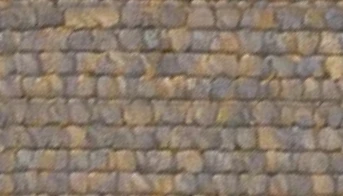
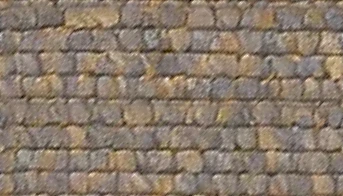
v98.886 — ขอบถนนเป็นก้อนหิน 3 มิติจากภาพจริง + ผิวหินคมขึ้น
Claude-Session: https://claude.ai/code/session_019t7yauB97LFXC2qcakV5pK

diff --git a/village-town.html b/village-town.html
@@ -265,7 +265,9 @@ function paintRoad(q,lines,width){let sp=clipSplit.get(lines);if(!sp){const cut=
    the flat top-down cobble and the stone-block curb, scaled so ONE CELL = CELLPX paint px (the tile edges are tilted to the exact 2:1 grid) and laid on the (u,v) axes
    (pattern rotated 45° in paint space) so every block row is on a grid line. The curb is one row of blocks ¼ cell deep along the OUTER edge of the road
    (which is on the grid, see snapK); blocks run along the road, so u-direction and v-direction segments use the two orientations of the same tile. */
-const SHEET={cobble:null,curb:null,pat:new WeakMap()};
+const SHEET={cobble:null,curb:null,strips:null,pat:new WeakMap()};
+{const im=new Image();im.onload=()=>{SHEET.strips=im;terrainDirty=true;try{lateTerrain()}catch(e){}};im.src='assets/village-town/ground/road-strips.webp'}
+const STRIPS=()=>!!(window.ROAD_STRIPS&&SHEET.strips&&SHEET.cobble);
 for(const[k,f]of[['cobble','road-sheet-cobble.webp'],['curb','road-sheet-curb.webp']]){const im=new Image();im.onload=()=>{SHEET[k]=im;SHEET.pat=new WeakMap();terrainDirty=true;try{lateTerrain()}catch(e){}};im.src='assets/village-town/ground/'+f}
 function sheetPat(ctx,key){if(!SHEET.cobble||!SHEET.curb)return null;let m=SHEET.pat.get(ctx);if(!m)SHEET.pat.set(ctx,m=new Map());if(m.has(key))return m.get(key);let src,s;
  if(key==='cobble'){src=SHEET.cobble;s=CELLPX/49}else{const c=document.createElement('canvas');c.width=c.height=192;const q=c.getContext('2d');if(key==='curbV')q.setTransform(0,1,1,0,0,0);q.drawImage(SHEET.curb,0,0);src=c;s=CELLPX/48}
@@ -273,6 +275,30 @@ function sheetPat(ctx,key){if(!SHEET.cobble||!SHEET.curb)return null;let m=SHEET
 /* a main/lane road split into its u-direction and v-direction segments (2-point lines that keep the road's width multiplier) */
 const dirCache=new WeakMap();
 function splitDir(lines){let r=dirCache.get(lines);if(r)return r;const kind=kindOfLines(lines),u=[],v=[];for(const L of lines){const w=lineW(L);for(let i=1;i<L.length;i++){const dx=L[i].x-L[i-1].x,dy=(L[i].y-L[i-1].y)*2;if(Math.hypot(dx,dy)<.5)continue;(dx*dy>0?u:v).push([{...L[i-1],w},{...L[i],w}])}}lineTag.set(u,kind);lineTag.set(v,kind);r={u,v};dirCache.set(lines,r);return r}
+/* v98.885 · REAL 3D CURB BLOCKS from the road sheet along every edge of the road (assets/village-town/ground/road-strips.webp · js/road-strips-data.js · tools/build-road-strips.py).
+   The roads (axis-aligned rectangles with edges on the grid) are rasterised at half-cell resolution; every boundary run gets 4-cell windows of the sheet's own curb art:
+   edge facing NW / SE → pieces A+C (blocks run NE–SW) · edge facing NE / SW → piece B (blocks run NW–SE); near and far sides are different pictures (tops + outer face / tops + inner face). */
+function roadRunsUV(){const rects=[];
+ for(const lines of[roadMainLines,roadLaneLines]){const kind=kindOfLines(lines),R=kind==='lane'?ROAD.lane:ROAD.main,Aw=R.curb+2*RIM_DARK;
+  for(const[k,ls]of byScale(lines)){const hc=roadW(Aw,lines,k)/CELLPX/2;
+   for(const L of ls)for(let i=1;i<L.length;i++){const a=inv(L[i-1].x,L[i-1].y),b=inv(L[i].x,L[i].y);if(Math.hypot(a.u-b.u,a.v-b.v)<.01)continue;
+    if(Math.abs(a.v-b.v)<.01)rects.push([Math.min(a.u,b.u)-hc,Math.max(a.u,b.u)+hc,a.v-hc,a.v+hc]);else if(Math.abs(a.u-b.u)<.01)rects.push([a.u-hc,a.u+hc,Math.min(a.v,b.v)-hc,Math.max(a.v,b.v)+hc])}}}
+ if(!rects.length)return[];const q=.5,u0=Math.min(...rects.map(r=>r[0]))-1,v0=Math.min(...rects.map(r=>r[2]))-1,NI=Math.ceil((Math.max(...rects.map(r=>r[1]))-u0)/q)+2,NJ=Math.ceil((Math.max(...rects.map(r=>r[3]))-v0)/q)+2,cell=new Uint8Array(NI*NJ);
+ for(const r of rects){const i0=Math.round((r[0]-u0)/q),i1=Math.round((r[1]-u0)/q),j0=Math.round((r[2]-v0)/q),j1=Math.round((r[3]-v0)/q);for(let i=i0;i<i1;i++)for(let j=j0;j<j1;j++)cell[i*NJ+j]=1}
+ const at=(i,j)=>i>=0&&j>=0&&i<NI&&j<NJ&&cell[i*NJ+j],runs=[];
+ for(let i=0;i<NI;i++){let a=null,b=null;for(let j=0;j<=NJ;j++){const w=at(i,j)&&!at(i-1,j),e=at(i,j)&&!at(i+1,j);if(w){if(!a)a=j}else if(a!==null){runs.push({t:'A_far',U:u0+i*q,v0:v0+a*q,v1:v0+j*q});a=null}
+   if(e){if(!b)b=j}else if(b!==null){runs.push({t:'A_near',U:u0+(i+1)*q,v0:v0+b*q,v1:v0+j*q});b=null}}}
+ for(let j=0;j<NJ;j++){let a=null,b=null;for(let i=0;i<=NI;i++){const n=at(i,j)&&!at(i,j-1),s=at(i,j)&&!at(i,j+1);if(n){if(!a)a=i}else if(a!==null){runs.push({t:'B_far',V:v0+j*q,u0:u0+a*q,u1:u0+i*q});a=null}
+   if(s){if(!b)b=i}else if(b!==null){runs.push({t:'B_near',V:v0+(j+1)*q,u0:u0+b*q,u1:u0+i*q});b=null}}}
+ return runs}
+function drawRoadCurbs(c){const D=window.ROAD_STRIPS,img=SHEET.strips;if(!D||!img)return;const runs=roadRunsUV(),P=(u,v)=>({x:2240+(u-v)*28,y:1232+(u+v)*14}),Lw=D.len,sc=D.scale;
+ const keyY=r=>{const p=r.t[0]==='A'?P(r.U,r.v1):P(r.u0,r.V);return p.y};runs.sort((a,b)=>keyY(a)-keyY(b));
+ c.save();c.scale(1,.5);const cl=fpClipAt(RIM_DARK+rimLight());if(cl)c.clip(cl,'evenodd');if(plazaPath){const w=new Path2D();w.rect(-4000,-4000,WORLD_W+8000,WORLD_H*2+8000);w.addPath(plazaPath);c.clip(w,'evenodd')}c.scale(1,2);
+ let n=0;for(const r of runs){const A=r.t[0]==='A',far=r.t.endsWith('far'),tRef=r.t==='A_near'||r.t==='B_far'?4:0,sv=A?[28,-14]:[28,14],tv=A?[28,14]:[28,-14],len=A?r.v1-r.v0:r.u1-r.u0,O=A?P(r.U,r.v1):P(r.u0,r.V),W=D.w[r.t],tb=D.t[r.t];
+  for(let k=0;k*Lw<len-1e-6;k++){n++;const w=W[(Math.round(O.x/7)+k*3+Math.round(O.y/5)+(far?1:0)+(A?0:2))%W.length|0],l=Math.min(Lw,len-k*Lw),sx=O.x+sv[0]*k*Lw,sy=O.y+sv[1]*k*Lw,px=sx-tv[0]*tRef-w.ox,py=sy-tv[1]*tRef-w.oy;
+   const part=l<Lw-1e-6;if(part){c.save();c.beginPath();const a=(s,t)=>{const x=sx-tv[0]*tRef+sv[0]*s+tv[0]*t,y=sy-tv[1]*tRef+sv[1]*s+tv[1]*t;return[x,y]};const q=[a(0,tb[0]-.3),a(l,tb[0]-.3),a(l,tb[1]+.3),a(0,tb[1]+.3)];c.moveTo(...q[0]);for(let z=1;z<4;z++)c.lineTo(...q[z]);c.closePath();c.clip()}
+   c.drawImage(img,w.x,w.y,w.w,w.h,px,py,w.w/sc,w.h/sc);if(part)c.restore()}}
+ c.restore();return n}
 /* v98.883 · ROAD WIDTH BY ROLE. The outer edge is on the grid (snapK). The stone curb of road_sheet is one row of blocks = ¼ cell deep, so the paving is that much narrower:
    rim (thin dark outline) = outer · curb texture = outer − 3 px · paving = outer − ½ cell (+ the feather growth the caller adds) · anything else (walk corridor, dirt exits) keeps width × k. */
 const CELLPX=28*Math.SQRT2,CURB_ROW=.25;
@@ -345,12 +371,12 @@ function drawTerrain(){
  g.fillStyle=TownArt.pattern(g,'grass')||'#7d906b';g.fillRect(0,0,WORLD_W,WORLD_H);TownArt.grassTone?.(g,WORLD_W,WORLD_H);groundPatches();window.TownBiome?.ground(g);estateGround();
  g.save();g.scale(1,.5);g.lineCap='round';g.lineJoin='round';
  // curbs: every paved shape gets the same stone rim — roads, plaza, junctions and the courtyards in front of each place
- const rings=[plazaPath,junctionPath].filter(Boolean);
+ const rings=[plazaPath,STRIPS()?null:junctionPath].filter(Boolean);
  if(ROAD_EDGE_STYLE==='classic'){
-  ROAD_CLIP=0;for(const [lines,R] of [[roadMainLines,ROAD.main],[roadLaneLines,ROAD.lane]]){g.strokeStyle=g.fillStyle='#4f4532';paintRoad(g,lines,R.curb+2*RIM_DARK)}for(const P of rings){g.lineJoin='round';g.strokeStyle='#4f4532';g.lineWidth=2*(RIM_DARK+rimLight())+4;g.stroke(P)}
+  ROAD_CLIP=0;if(!STRIPS())for(const [lines,R] of [[roadMainLines,ROAD.main],[roadLaneLines,ROAD.lane]]){g.strokeStyle=g.fillStyle='#4f4532';paintRoad(g,lines,R.curb+2*RIM_DARK)}for(const P of rings){g.lineJoin='round';g.strokeStyle='#4f4532';g.lineWidth=2*(RIM_DARK+rimLight())+4;g.stroke(P)}
   const cu=sheetPat(g,'curbU'),cv=sheetPat(g,'curbV');
-  ROAD_CLIP=RIM_DARK;for(const [lines,R] of [[roadMainLines,ROAD.main],[roadLaneLines,ROAD.lane]]){if(cu){const S=splitDir(lines);g.strokeStyle=g.fillStyle=cu;paintRoad(g,S.u,R.curb);g.strokeStyle=g.fillStyle=cv;paintRoad(g,S.v,R.curb)}else{g.strokeStyle=g.fillStyle='#cdc3aa';paintRoad(g,lines,R.curb)}}for(const P of rings){g.strokeStyle=cu||'#cdc3aa';g.lineWidth=2*rimLight()+4;g.stroke(P)}
-  if(!cu){g.setLineDash([3,27]);g.lineCap='butt';g.strokeStyle='rgba(74,62,44,.6)';for(const [lines,R] of [[roadMainLines,ROAD.main],[roadLaneLines,ROAD.lane]]){strokeRoad(g,lines,R.curb)}g.lineWidth=2*rimLight()+4;for(const P of rings)g.stroke(P);g.setLineDash([])}ROAD_CLIP=RIM_DARK+rimLight();
+  ROAD_CLIP=RIM_DARK;if(!STRIPS())for(const [lines,R] of [[roadMainLines,ROAD.main],[roadLaneLines,ROAD.lane]]){if(cu){const S=splitDir(lines);g.strokeStyle=g.fillStyle=cu;paintRoad(g,S.u,R.curb);g.strokeStyle=g.fillStyle=cv;paintRoad(g,S.v,R.curb)}else{g.strokeStyle=g.fillStyle='#cdc3aa';paintRoad(g,lines,R.curb)}}for(const P of rings){g.strokeStyle=cu||'#cdc3aa';g.lineWidth=2*rimLight()+4;g.stroke(P)}
+  if(!cu&&!STRIPS()){g.setLineDash([3,27]);g.lineCap='butt';g.strokeStyle='rgba(74,62,44,.6)';for(const [lines,R] of [[roadMainLines,ROAD.main],[roadLaneLines,ROAD.lane]]){strokeRoad(g,lines,R.curb)}g.lineWidth=2*rimLight()+4;for(const P of rings)g.stroke(P);g.setLineDash([])}ROAD_CLIP=RIM_DARK+rimLight();
  }else{const tex=roadEdgePattern(g);g.save();g.lineCap='round';g.lineJoin='round';for(const [lines,R] of [[roadMainLines,ROAD.main],[roadLaneLines,ROAD.lane]]){g.strokeStyle='#514a3a';ROAD_CLIP=0;paintRoad(g,lines,R.curb+2*RIM_DARK);g.strokeStyle=tex;ROAD_CLIP=RIM_DARK;paintRoad(g,lines,R.curb);g.strokeStyle='rgba(66,57,42,.5)';g.lineWidth=5;g.setLineDash([2,20]);g.stroke(pathFromLines(lines))}g.setLineDash([]);for(const P of rings){g.strokeStyle='#514a3a';g.lineWidth=2*(RIM_DARK+rimLight())+4;g.stroke(P);g.strokeStyle=tex;g.lineWidth=2*rimLight()+4;g.stroke(P)}g.restore();ROAD_CLIP=RIM_DARK+rimLight()}
  // v69: roads out of the village are packed-dirt trails without a stone rim
  {const dirt=TownArt.pattern(g,'ground/dirt-road.png')||'#8a6a44';g.save();g.globalAlpha=.45;g.strokeStyle=g.fillStyle=dirt;paintRoad(g,roadExitLines,ROAD.main.pave+46);g.globalAlpha=1;paintRoad(g,roadExitLines,ROAD.main.pave-10);g.restore()}
@@ -361,12 +387,13 @@ function drawTerrain(){
  // place's courtyard uses the texture of the road that reaches its gate.
  {const S=sunkLayer||(sunkLayer=document.createElement('canvas'));S.width=WORLD_W;S.height=WORLD_H;const q=S.getContext('2d'),F=ROAD_BLEND,
   laneOnly=roadLines.filter((_,i)=>roadKinds[i]==='lane'),
-  groups={main:{lines:[[roadMainLines,ROAD.main.pave]],paths:[junctionPath],courts:[]},lane:{lines:[[laneOnly,ROAD.lane.pave]],paths:[],courts:[]},plaza:{lines:[],paths:[plazaPath],courts:[]},exit:{lines:[[roadExitLines,ROAD.main.pave-10]],paths:[],courts:[]}},
+  groups={main:{lines:[[roadMainLines,ROAD.main.pave+(STRIPS()?CURB_ROW*2*CELLPX:0)]],paths:[STRIPS()?null:junctionPath],courts:[]},lane:{lines:[[laneOnly,ROAD.lane.pave+(STRIPS()?CURB_ROW*2*CELLPX:0)]],paths:[],courts:[]},plaza:{lines:[],paths:[plazaPath],courts:[]},exit:{lines:[[roadExitLines,ROAD.main.pave-10]],paths:[],courts:[]}},
   shape=(c,G,grow=0)=>{c.lineCap=c.lineJoin='round';for(const[l,w]of G.lines)paintRoad(c,l,w+grow*2);for(const P of G.paths)if(P){c.fill(P);if(grow){c.lineWidth=grow*2;c.stroke(P)}}},
   layer=(c,dy,fn)=>{c.save();c.translate(0,dy);c.scale(1,.5);fn();c.restore()},
-  union=(st,dy)=>layer(q,dy,()=>{q.strokeStyle=q.fillStyle=st;for(const k of['main','lane','plaza'])shape(q,groups[k])}),
+  union=(st,dy)=>layer(q,dy,()=>{q.strokeStyle=q.fillStyle=st;for(const k of STRIPS()?['plaza']:['main','lane','plaza'])shape(q,groups[k])}),
   P=id=>TownArt.pattern(q,id)||TownArt.pattern(q,'paving')||'#c9bca0',tex={main:sheetPat(q,'cobble')||P('paving'),lane:sheetPat(q,'cobble')||P('ground/cobble.png'),plaza:P('ground/plaza-slabs.png'),exit:TownArt.pattern(q,'ground/dirt-road.png')||'#8a6a44'};
   union('#8f826a',0);q.globalCompositeOperation='source-atop';union('rgba(40,34,24,.55)',6);
+  if(STRIPS()){q.globalCompositeOperation='source-over';layer(q,0,()=>{q.strokeStyle=q.fillStyle=tex.main;shape(q,groups.main);q.strokeStyle=q.fillStyle=tex.lane;shape(q,groups.lane)})}   /* v98.885 · the road sheet's own curbs stand on the ground: the paving is flat (no stepped-down face) */
   if(F<=0){for(const k of['main','lane','plaza'])layer(q,9,()=>{q.strokeStyle=q.fillStyle=tex[k];shape(q,groups[k])})}
   else{layer(q,9,()=>{q.fillStyle=tex.main;q.fillRect(0,0,WORLD_W,WORLD_H*2)});
    // feathered overlay: grow the shape by F, blur by F/2 at half resolution, then paint the texture through that soft mask
@@ -378,6 +405,7 @@ function drawTerrain(){
     q.globalAlpha=key==='exit'?.85:1;q.drawImage(L,0,0);q.globalAlpha=1}
    M.width=T.width=L.width=1}
   g.drawImage(S,0,0);S.width=S.height=1}
+ if(STRIPS())drawRoadCurbs(g);
  window.VillageFrontage?.ground(g);
  window.TownMood?.shadows(g);
  window.VillageNature?.ground(g);
@@ -562,7 +590,7 @@ document.querySelectorAll('[data-game]').forEach(b=>b.onclick=()=>sendGame('menu
 
 document.addEventListener('pointerdown',()=>sendGame('input'),{capture:true});document.addEventListener('keydown',()=>sendGame('input'),{capture:true});
 rebuildRoads();heroRestore();renderList();fit();new ResizeObserver(fit).observe(stage);parent.postMessage({source:'project-a-town',type:'ready'},'*');document.fonts.ready.then(lateTerrain);requestAnimationFrame(draw);const roadEdgeButton=$('roadEdgeStyle');if(roadEdgeButton){roadEdgeButton.onclick=()=>setRoadEdgeStyle(ROAD_EDGE_STYLE==='classic'?'texture':'classic');roadEdgeButton.textContent='ขอบถนน: '+(ROAD_EDGE_STYLE==='texture'?'ลายหินใหม่':'แบบเดิม');}
-</script><script src="js/character-scale-adjust-data.js?v=v98.861"></script><script src="js/character-scale-adjust.js?v=v98.656"></script><script src="js/village-layout-v67.js?v=v98.861"></script><script src="js/village-grid.js?v=3"></script><script src="js/village-footprint.js?v=91.70"></script><script src="js/village-fence.js?v=1"></script><script src="js/town-ux.js?v=v98.884"></script><script src="js/interactables.js?v=98.31"></script><script src="js/touch-controls.js?v=98.32"></script><script src="js/town-hud.js?v=v98.861"></script><script src="js/town-menu.js?v=98.606"></script><script src="js/village-biomes.js?v=98.13"></script><script src="js/village-forest.js?v=v98.861"></script><script src="js/nature-alpha-masks.js"></script><script src="js/elements.js?v=97.50"></script><script src="js/injury.js?v=v98.332"></script><script src="js/world-state.js?v=98.297"></script><script src="js/name-plate.js?v=v98.606"></script><script src="js/villager-draw.js?v=v98.650"></script><script src="js/village-life.js?v=v98.427"></script><script src="js/village-lines.js?v=97.50"></script><script src="js/village-mind.js?v=97.34"></script><script src="js/depth-style.js?v=v98.861"></script><script src="js/walk-speed.js?v=v98.861"></script><script src="js/walk-speed-editor.js?v=98.109"></script><script src="js/dialogue-fx.js?v=v98.861"></script><script src="js/npc-emote.js?v=v98.397"></script><script src="js/town-npcs.js?v=v98.861"></script><script src="js/monster-animation.js?v=v98.444"></script><script src="js/town-quest.js?v=v98.861"></script><script src="js/game-mood.js?v=74"></script><script src="js/hd2d.js?v=v98.663"></script><script src="js/edit-perf.js?v=v98.861"></script><script src="js/town-mood.js?v=98.21"></script><script src="js/day-light.js?v=v98.861"></script><script src="js/village-frontage.js?v=v98.861"></script><script src="js/proc-motion.js?v=v98.866"></script><script src="js/manifest-merge.js?v=v98.444"></script><script src="js/github-push.js?v=v98.884"></script><script src="js/village-asset-tables.js?v=98.293"></script><script src="js/village-asset-css.js?v=98.293"></script><script src="js/placeable-art.js?v=v98.431"></script><script src="js/village-repo-assets.js?v=v98.431"></script><script src="js/village-asset-edit.js?v=v98.873"></script><script>if(EDIT_PAGE&&window.TownPaint)GroundPaint.ui(TownPaint,{bar:()=>document.getElementById('townTools'),canvas:cv,toWorld:e=>world(e),before:()=>{TownUX.checkpoint();TownPaint.setClip?.(paintClip())},after:()=>TownUX.persist(),ensureEdit:()=>{if(!editing)$('edit').click()},onOpen:()=>{if(window.VillageAssetEdit?.placeId())VillageAssetEdit.leave();TownUX.setMode('object')}});</script><script src="js/layout-sync.js?v=98.96"></script><script src="js/editor-tools.js?v=98.99"></script><script src="js/asset-request.js?v=3"></script><script src="js/editor-auto.js?v=v98.861"></script><script src="js/editor-layout.js?v=98.287"></script><script src="js/test-lab.js?v=98.293"></script><script src="js/editor-dock.js?v=98.293"></script><script src="js/piece-detail.js?v=v98.873"></script><script src="js/exit-edit.js?v=98.21"></script><script src="js/tips.js?v=v98.310"></script><script src="js/ground-art.js?v=98.282"></script><script src="js/ground-art-code.js?v=98.309"></script><script src="js/town-battle.js?v=v98.861"></script><script src="js/console-ui.js?v=98.32"></script><script>
+</script><script src="js/character-scale-adjust-data.js?v=v98.861"></script><script src="js/character-scale-adjust.js?v=v98.656"></script><script src="js/road-strips-data.js?v=v98.886"></script><script src="js/village-layout-v67.js?v=v98.861"></script><script src="js/village-grid.js?v=3"></script><script src="js/village-footprint.js?v=91.70"></script><script src="js/village-fence.js?v=1"></script><script src="js/town-ux.js?v=v98.884"></script><script src="js/interactables.js?v=98.31"></script><script src="js/touch-controls.js?v=98.32"></script><script src="js/town-hud.js?v=v98.861"></script><script src="js/town-menu.js?v=98.606"></script><script src="js/village-biomes.js?v=98.13"></script><script src="js/village-forest.js?v=v98.861"></script><script src="js/nature-alpha-masks.js"></script><script src="js/elements.js?v=97.50"></script><script src="js/injury.js?v=v98.332"></script><script src="js/world-state.js?v=98.297"></script><script src="js/name-plate.js?v=v98.606"></script><script src="js/villager-draw.js?v=v98.650"></script><script src="js/village-life.js?v=v98.427"></script><script src="js/village-lines.js?v=97.50"></script><script src="js/village-mind.js?v=97.34"></script><script src="js/depth-style.js?v=v98.861"></script><script src="js/walk-speed.js?v=v98.861"></script><script src="js/walk-speed-editor.js?v=98.109"></script><script src="js/dialogue-fx.js?v=v98.861"></script><script src="js/npc-emote.js?v=v98.397"></script><script src="js/town-npcs.js?v=v98.861"></script><script src="js/monster-animation.js?v=v98.444"></script><script src="js/town-quest.js?v=v98.861"></script><script src="js/game-mood.js?v=74"></script><script src="js/hd2d.js?v=v98.663"></script><script src="js/edit-perf.js?v=v98.861"></script><script src="js/town-mood.js?v=98.21"></script><script src="js/day-light.js?v=v98.861"></script><script src="js/village-frontage.js?v=v98.861"></script><script src="js/proc-motion.js?v=v98.866"></script><script src="js/manifest-merge.js?v=v98.444"></script><script src="js/github-push.js?v=v98.884"></script><script src="js/village-asset-tables.js?v=98.293"></script><script src="js/village-asset-css.js?v=98.293"></script><script src="js/placeable-art.js?v=v98.431"></script><script src="js/village-repo-assets.js?v=v98.431"></script><script src="js/village-asset-edit.js?v=v98.873"></script><script>if(EDIT_PAGE&&window.TownPaint)GroundPaint.ui(TownPaint,{bar:()=>document.getElementById('townTools'),canvas:cv,toWorld:e=>world(e),before:()=>{TownUX.checkpoint();TownPaint.setClip?.(paintClip())},after:()=>TownUX.persist(),ensureEdit:()=>{if(!editing)$('edit').click()},onOpen:()=>{if(window.VillageAssetEdit?.placeId())VillageAssetEdit.leave();TownUX.setMode('object')}});</script><script src="js/layout-sync.js?v=98.96"></script><script src="js/editor-tools.js?v=98.99"></script><script src="js/asset-request.js?v=3"></script><script src="js/editor-auto.js?v=v98.861"></script><script src="js/editor-layout.js?v=98.287"></script><script src="js/test-lab.js?v=98.293"></script><script src="js/editor-dock.js?v=98.293"></script><script src="js/piece-detail.js?v=v98.873"></script><script src="js/exit-edit.js?v=98.21"></script><script src="js/tips.js?v=v98.310"></script><script src="js/ground-art.js?v=98.282"></script><script src="js/ground-art-code.js?v=98.309"></script><script src="js/town-battle.js?v=v98.861"></script><script src="js/console-ui.js?v=98.32"></script><script>
 /* v98.16 · joystick / keyboard walking + the one-button 'do what is in front of me' (js/touch-controls.js) */
 function joyBusy(){return editing||window.TownBattle?.active?.()||!!document.querySelector('dialog[open]')||(()=>{const b=document.getElementById('npcTalk');return !!b&&!b.hidden})()}
 const BATTLE_PAGE=new URLSearchParams(location.search).get('battle')==='1',bpad=()=>window.TownBattle?.pad;

diff --git a/js/road-strips-data.js b/js/road-strips-data.js
@@ -1,0 +1,2 @@
+/* generated by tools/build-road-strips.py */
+window.ROAD_STRIPS={"scale": 2, "len": 4, "t": {"A_far": [-0.12, 0.6], "A_near": [3.4, 4.55], "B_near": [-0.58, 0.5], "B_far": [3.42, 4.15]}, "w": {"A_far": [{"x": 0, "y": 0, "w": 267, "h": 135, "ox": 3.36, "oy": 57.68}, {"x": 0, "y": 137, "w": 267, "h": 135, "ox": 3.36, "oy": 57.68}, {"x": 0, "y": 274, "w": 267, "h": 135, "ox": 3.36, "oy": 57.68}, {"x": 0, "y": 411, "w": 267, "h": 135, "ox": 3.36, "oy": 57.68}, {"x": 0, "y": 548, "w": 267, "h": 135, "ox": 3.36, "oy": 57.68}, {"x": 0, "y": 685, "w": 267, "h": 135, "ox": 3.36, "oy": 57.68}, {"x": 0, "y": 822, "w": 267, "h": 135, "ox": 3.36, "oy": 57.68}], "A_near": [{"x": 0, "y": 959, "w": 291, "h": 147, "ox": -95.2, "oy": 8.4}, {"x": 0, "y": 1108, "w": 291, "h": 147, "ox": -95.2, "oy": 8.4}, {"x": 0, "y": 1257, "w": 291, "h": 147, "ox": -95.2, "oy": 8.4}, {"x": 0, "y": 1406, "w": 291, "h": 147, "ox": -95.2, "oy": 8.4}, {"x": 0, "y": 1555, "w": 291, "h": 147, "ox": -95.2, "oy": 8.4}, {"x": 0, "y": 1704, "w": 291, "h": 147, "ox": -95.2, "oy": 8.4}, {"x": 0, "y": 1853, "w": 291, "h": 147, "ox": -95.2, "oy": 8.4}], "B_near": [{"x": 0, "y": 2002, "w": 287, "h": 145, "ox": 16.24, "oy": 7.0}, {"x": 0, "y": 2149, "w": 287, "h": 145, "ox": 16.24, "oy": 7.0}, {"x": 0, "y": 2296, "w": 287, "h": 145, "ox": 16.24, "oy": 7.0}], "B_far": [{"x": 0, "y": 2443, "w": 267, "h": 135, "ox": -95.76, "oy": 58.1}, {"x": 0, "y": 2580, "w": 267, "h": 135, "ox": -95.76, "oy": 58.1}, {"x": 0, "y": 2717, "w": 267, "h": 135, "ox": -95.76, "oy": 58.1}]}};

diff --git a/js/game-version.js b/js/game-version.js
@@ -2,7 +2,7 @@
    Major release: increment the main number (v80 → v81).
    Small patch (⬆ Push from an editor): increment the suffix counter (v81.13 → v81.14; treat it as a sequence, not a decimal).
    The commit message starts with the same version. Editor pushes bump the suffix automatically. */
-window.GAME_VERSION={v:'v98.885',date:'2026-11-20',repo:'ekkavish31/Project-Agrenor-Tactical-Card-Game'};
+window.GAME_VERSION={v:'v98.886',date:'2026-11-20',repo:'ekkavish31/Project-Agrenor-Tactical-Card-Game'};
 /* v91.94 · asset cache (sw.js): reloads reuse the ~60 MB of map images; a new version fetches them once; Ctrl+F5 refreshes the stored copies */
 /* v98.380 · on localhost (development) no asset cache: edited local images show on F5 (tools/dev-server.cjs) */
 try{if('serviceWorker' in navigator&&/^https?:$/.test(location.protocol)){if(/^(localhost|127\.0\.0\.1|\[::1\])$/.test(location.hostname)){navigator.serviceWorker.getRegistrations().then(r=>r.forEach(x=>x.unregister())).catch(()=>{});window.caches&&caches.keys().then(k=>k.forEach(n=>caches.delete(n))).catch(()=>{})}else navigator.serviceWorker.register('sw.js?v='+encodeURIComponent(window.GAME_VERSION.v)).catch(()=>{})}}catch(e){}

diff --git a/tools/build-road-strips.py b/tools/build-road-strips.py
@@ -1,0 +1,64 @@
+"""v98.885 · real 3D curb strips for the village roads, cut from the supplied road sheet.
+Each straight piece of the sheet is warped (its 4 corners → the exact 2:1 grid) and the curb band of each of its two edges is cut out as 4-cell windows
+(4 edge types: outward normal NW/SE = pieces A,C · NE/SW = piece B). Run: python3 tools/build-road-strips.py"""
+from PIL import Image, ImageFilter
+import numpy as np, math, json
+import os
+ROOT=os.path.join(os.path.dirname(os.path.abspath(__file__)),'..')
+SRC=os.path.join(ROOT,'assets/village-town/ground/road-sheet-source.webp')
+spr=np.array(Image.open(SRC).convert('RGBA')).astype(float)
+def sample(px,py):
+    H,W=spr.shape[:2]; px=np.clip(px,0,W-1.001); py=np.clip(py,0,H-1.001); xi=px.astype(int); yi=py.astype(int); fx=(px-xi)[...,None]; fy=(py-yi)[...,None]
+    # premultiplied bilinear
+    def g(dy,dx): 
+        v=spr[yi+dy,xi+dx].copy(); v[...,:3]*=v[...,3:4]/255; return v
+    out=g(0,0)*(1-fx)*(1-fy)+g(0,1)*fx*(1-fy)+g(1,0)*(1-fx)*fy+g(1,1)*fx*fy
+    a=out[...,3:4]; rgb=np.where(a>1e-3,out[...,:3]/np.maximum(a/255,1e-6),0); return np.concatenate([rgb,a],-1)
+S=3
+# tile defs: bbox origin, left corner (origin of s,t), e1 (along run, sprite px), e2 (across, sprite px, 4 cells)
+TILES={
+ 'A':dict(o=(66,4),  left=(0,175),   e1=(316,-161),  e2=(98,55),   sv=(28,-14), tv=(28,14)),
+ 'C':dict(o=(1049,4),left=(0,192.5), e1=(382,-192.5),e2=(95.5,53.5),sv=(28,-14), tv=(28,14)),
+ 'B':dict(o=(564,4), left=(0,74.5),  e1=(279,146.5), e2=(100,-57.5),sv=(28,14),  tv=(28,-14)),
+}
+def render(tile,s0,Lw,t0,t1,flip_t=False,pad=0.0):
+    d=TILES[tile]; sv=np.array(d['sv'],float); tv=np.array(d['tv'],float)
+    # bbox of the band parallelogram in game px
+    corners=[s*sv+t*tv for s in (0,Lw) for t in (t0,t1)]
+    xs=[c[0] for c in corners]; ys=[c[1] for c in corners]; x0,x1,y0,y1=min(xs),max(xs),min(ys),max(ys)
+    W=int(math.ceil((x1-x0)*S))+2; H=int(math.ceil((y1-y0)*S))+2
+    gy,gx=np.mgrid[0:H,0:W]; wx=x0+gx/S; wy=y0+gy/S
+    M=np.array([[sv[0],tv[0]],[sv[1],tv[1]]]); Mi=np.linalg.inv(M); st=np.einsum('ij,jyx->iyx',Mi,np.array([wx,wy]))
+    s=st[0]; t=st[1]
+    pxcell=abs(d['e2'][0])/4; Ls=abs(d['e1'][0])/pxcell
+    sa=s0+s; sx=np.array(d['o'])[0]+d['left'][0]+sa/Ls*d['e1'][0]+t/4*d['e2'][0]; sy=np.array(d['o'])[1]+d['left'][1]+sa/Ls*d['e1'][1]+t/4*d['e2'][1]
+    out=sample(sx,sy)
+    inside=(s>=0)&(s<=Lw)&(t>=t0)&(t<=t1)
+    # feather the t edges a little, hard cut on s (windows abut)
+    out[...,3]*=inside
+    return out,(x0,y0,W,H)
+
+import json
+S2=2   # px per world px in the atlas
+S=S2
+BANDS={'A_far':('A',-0.12,0.60),'A_near':('A',3.40,4.55),'B_near':('B',-0.58,0.50),'B_far':('B',3.42,4.15)}
+# source windows (tile, s0): window length 4 cells
+SRCS={'A':[('A',0),('A',4),('A',8),('C',0),('C',4),('C',8),('C',11)],'B':[('B',0),('B',4),('B',7)]}
+atlas=[];meta={}
+y=0; W=0; ims=[]
+for typ,(axis,t0,t1) in BANDS.items():
+    meta[typ]=[]
+    for tile,s0 in SRCS[axis]:
+        # for the C-tile the band offsets are the same (same orientation / same 4-cell width)
+        o,(x0,y0,w,h)=render(tile,float(s0),4.0,t0,t1)
+        im=Image.fromarray(np.clip(o,0,255).astype(np.uint8),'RGBA')
+        # unsharp (the sprites are small and soft)
+        rgb=im.convert('RGB').filter(ImageFilter.UnsharpMask(radius=1.6,percent=90,threshold=2)); im=Image.merge('RGBA',(*rgb.split(),im.split()[3]))
+        ims.append((typ,tile,s0,im,x0,y0)); W=max(W,im.width)
+H=sum(i[3].height+2 for i in ims)
+atlas=Image.new('RGBA',(W,H),(0,0,0,0)); y=0
+for typ,tile,s0,im,x0,y0 in ims:
+    atlas.paste(im,(0,y)); meta[typ].append(dict(x=0,y=y,w=im.width,h=im.height,ox=round(-x0,3),oy=round(-y0,3))); y+=im.height+2
+atlas.save(os.path.join(ROOT,'assets/village-town/ground/road-strips.webp'),quality=92); print(atlas.size, {k:len(v) for k,v in meta.items()})
+data=dict(scale=S2,len=4,t={k:[BANDS[k][1],BANDS[k][2]] for k in BANDS},w=meta)
+open(os.path.join(ROOT,'js/road-strips-data.js'),'w').write('/* generated by tools/build-road-strips.py */\nwindow.ROAD_STRIPS='+json.dumps(data)+';\n')

diff --git a/tools/build-road-sheet.py b/tools/build-road-sheet.py
@@ -6,7 +6,7 @@
      road-sheet-curb.webp    192×192 px = 4×4 cells (48 px per cell) · 16 rows of curb blocks, each row ¼ cell deep (the block tops of the sheet's curb)
    village-town.html lays both on the (u,v) axes (pattern rotated 45° in paint space, 1 cell = 28√2 px) so the block rows sit on grid lines.
    Run:  python3 tools/build-road-sheet.py      (needs numpy + Pillow)"""
-from PIL import Image
+from PIL import Image, ImageFilter
 import numpy as np, random, os
 ROOT = os.path.join(os.path.dirname(__file__), '..'); G = os.path.join(ROOT, 'assets/village-town/ground/')
 a = np.array(Image.open(G + 'road-sheet-source.webp').convert('RGBA')).astype(float)
@@ -28,7 +28,8 @@ def hwrap(s):
 hs = [hwrap(s) for s in strips]; tile = np.zeros((H * len(hs), Wc, 3))
 for j, s in enumerate(hs):
     cur = s[:H].copy(); t = np.linspace(0, 1, m)[:, None, None]; cur[:m] = (1 - t) * hs[j - 1][H:H + m] + t * cur[:m]; tile[j * H:(j + 1) * H] = cur
-Image.fromarray(np.clip(tile, 0, 255).astype(np.uint8)).save(G + 'road-sheet-cobble.webp', quality=90)
+cob = Image.fromarray(np.clip(tile, 0, 255).astype(np.uint8)).filter(ImageFilter.UnsharpMask(radius=1.4, percent=170, threshold=2))   # the source is small and soft: sharpen so the stone joints stay crisp when magnified
+cob.save(G + 'road-sheet-cobble.webp', quality=92)
 # ---- curb: block tops of the near-edge strips, one ¼-cell row at a time
 rng = random.Random(11); TILE, D = 192, 12
 def joints(f):

diff --git a/docs/CHANGELOG-TH.md b/docs/CHANGELOG-TH.md
@@ -7077,3 +7077,12 @@ v35b: เปลี่ยนการหมุนสนามจาก crossfade 
 - ปุ่ม **push** ในแถบเครื่องมือแผนที่หมู่บ้าน (และแมพย่อยภายในสถานที่) เปลี่ยนเป็น **🛒 To Cart** — กดแล้วแค่บันทึกลง Cart ยังไม่ส่งขึ้นเกม (กันเข้าใจผิดว่าส่งแล้ว)
 - ปุ่ม **Cart (n)** ที่แถบบน editor และปุ่มลอยของหน้าอื่น เปลี่ยนเป็น **🛒 Cart to Push (n)** — ปุ่มนี้คือตัวส่งจริง
 - หน้าต่างแจ้งผล "ใส่ Cart แล้ว" ลอยอยู่ใต้ปุ่ม **To Cart** ที่เพิ่งกด (เดิมอยู่มุมขวาล่างไกลตา) · ข้อความบอกด้วยว่ายังไม่ได้ push ให้กด Cart to Push
+
+## v98.886 — 20 พฤศจิกายน 2026
+
+### ขอบถนนเป็นก้อนหิน 3 มิติจากภาพจริง (ไม่ใช่โค้ดวาด) + ผิวหินคมขึ้น
+- **สาเหตุที่ v98.883 ดูไม่สวย**: ขอบถนนเป็นแค่แถบบางที่โค้ดปูลายก้อนหินแบนราบ ไม่มีความหนา/ด้านข้างก้อนหินแบบในภาพ · ผิวหินปูเบลอเพราะภาพต้นทางเล็ก (ชิ้นถนนกว้าง 4 ช่อง = ~98px ในภาพ → ~24px ต่อช่อง) แต่ในเกมซูมดูช่องละ ~60–130px
+- **ขอบ** (`assets/village-town/ground/road-strips.webp` + `js/road-strips-data.js` · สร้างด้วย `tools/build-road-strips.py`): ตัดแถบขอบ 3 มิติ (หน้าบนก้อนหิน + ด้านข้าง) จากชิ้นถนนตรงในภาพทั้งสองขอบ (ไกล/ใกล้) × สองทิศ = 4 แบบ แล้ววางเรียงตามทุกขอบถนน · ถนนถูกแปลงเป็นช่องครึ่งช่อง ตามรอยต่อ (ขอบอยู่บนเส้นกริด) · ขอบไม่ลงในลานน้ำพุ/ในอาคาร · ผิวปูแบนไม่มีขั้นลึก (ขอบยืนบนพื้นเหมือนในภาพ)
+- **ผิวหินปู**: เพิ่มความคมของลายหิน (unsharp) ให้เส้นรอยต่อก้อนหินชัดเมื่อขยาย
+- ทดสอบ: ทางเดินถึงทุกสถานที่ 552/552 · `check-places --browser` 149 ข้อผ่าน · ดูภาพจริงที่ขอบหญ้า มุมถนน ลานน้ำพุ
+- **ข้อจำกัดที่บอกตรง ๆ**: ความคมสูงสุดถูกจำกัดด้วยความละเอียดของภาพต้นฉบับ — ถ้าต้องการให้คมเท่าตึก ต้องใช้ภาพชิ้นถนนความละเอียดสูงกว่านี้ ~3–4 เท่า (ผมสร้างรายละเอียดใหม่ไม่ได้) · ยังไม่ได้ใช้ชิ้นโค้ง/ทางแยกของภาพโดยตรง: มุมถนนใช้ก้อนหินตัดต่อกันแบบเหลี่ยม ไม่มีมุมโค้งมนแบบในภาพ
